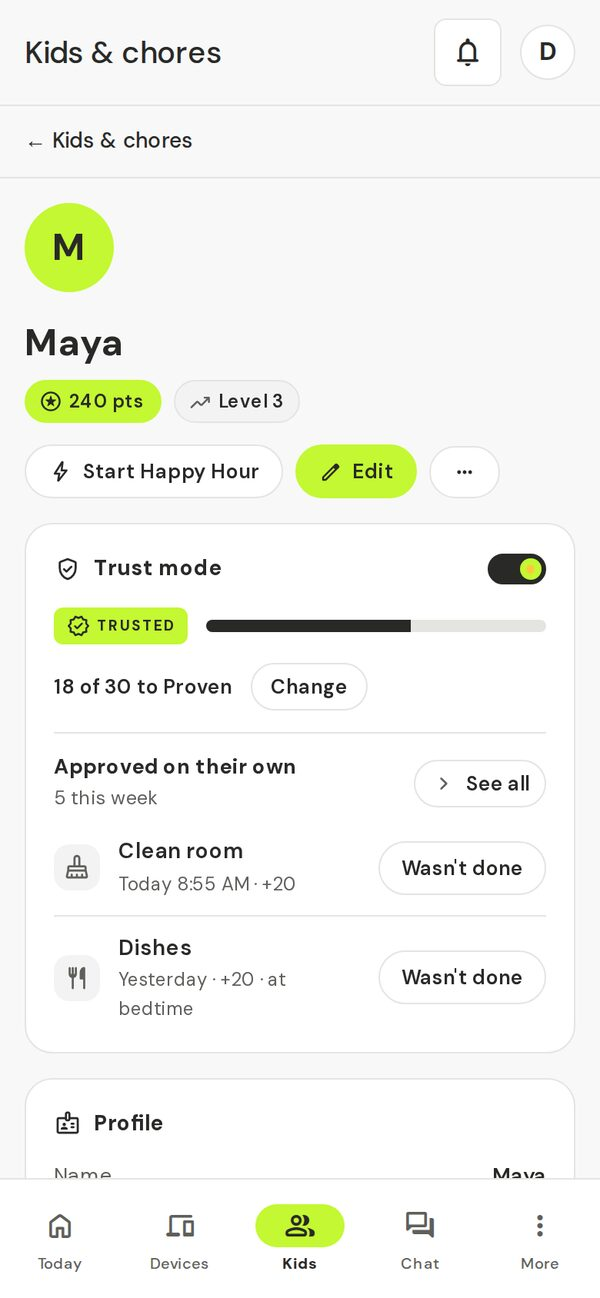
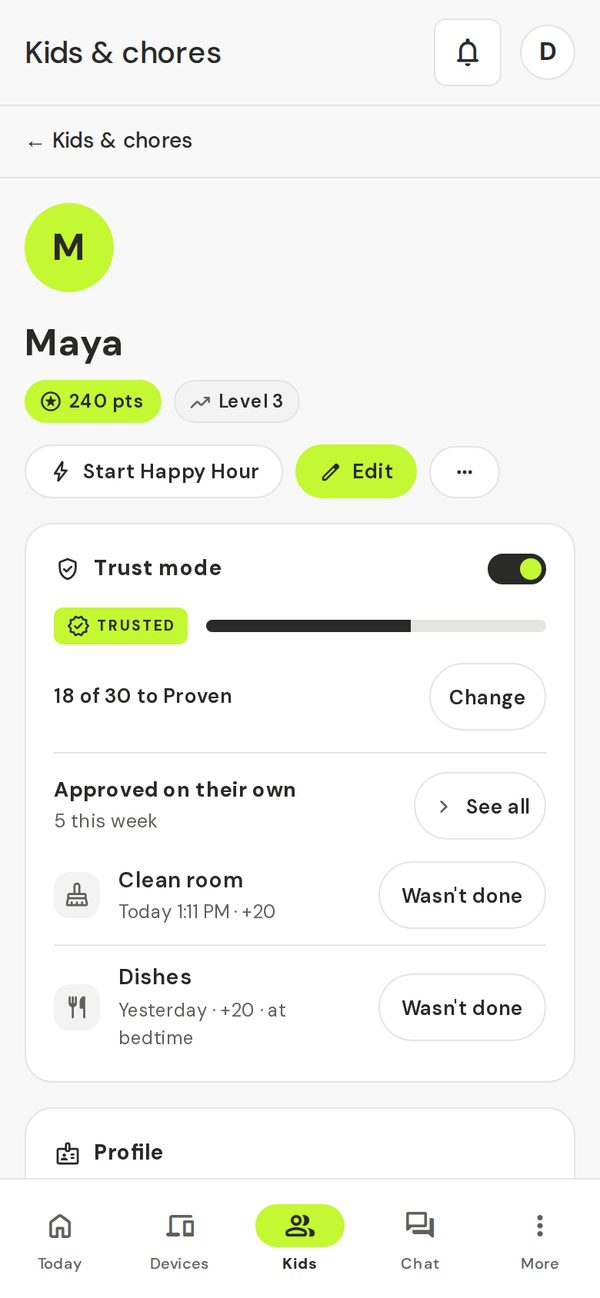
docs(guide): retake stale screenshots; rename less-tapping to extras
Claude-Session: https://claude.ai/code/session_011K7jrVbDK9XkJbLGVTb23M

diff --git a/docs/guide/img/SHOTS.md b/docs/guide/img/SHOTS.md
@@ -29,6 +29,8 @@ Taken with Playwright from a demo family (kids Bobby and Susan), read-only: ever
 | `trust-kid.jpg` | Kid page (phone): **Trust mode** card, Trusted level, and **Approved on their own** with **Wasn't done**. Less parent work 2.7.0. |
 | `wasnt-done.jpg` | Kid page (phone): the **Wasn't done?** sheet with **Also lower trust level** ticked. |
 | `setup-extras.jpg` | Setup wizard step 8 "Optional extras" (phone): trust mode per kid and bedtime auto-approve, all off. |
-| `less-tapping.jpg` | **Settings → Family** (phone): the **Extras** card with bedtime auto-approve on. |
+| `extras.jpg` | **Settings → Family** (phone): the **Extras** card with bedtime auto-approve on. Retaken 2026-11-07 (renamed from `less-tapping.jpg`) from a mocked API. |
 | `recap.jpg` | **Your week** (phone): **Worth a look** list and the **This week** card. |
 | `kid-trust-chip.jpg` | Kid **Me** (phone, Little look): the Proven level chip and its friendly line. |
+
+Retaken 2026-11-07 after the polish passes: `trust-kid.jpg`, `wasnt-done.jpg`, `extras.jpg`, `recap.jpg`. These four came from a mocked API (Playwright `page.route`, parent logged in with a fake token), phone 390x844 at 2x, light, viewport only, resized to 600 px wide, JPEG quality 82. The real-backend shot process was not used.

diff --git a/docs/guide/04-everyday-use.md b/docs/guide/04-everyday-use.md
@@ -224,7 +224,7 @@ Every Sunday at 7:30 PM you get "Your week at (your family)" in your inbox, plus
 - **Kids & chores → the kid → Trust mode**, and **Always check** on each chore.
 - **Settings → Family → Extras**: **Bedtime auto-approve** (with its time) and **Weekly recap**.
 
-![The Extras card in Settings](img/less-tapping.jpg)
+![The Extras card in Settings](img/extras.jpg)
 
 ### "Try this" cards
 
